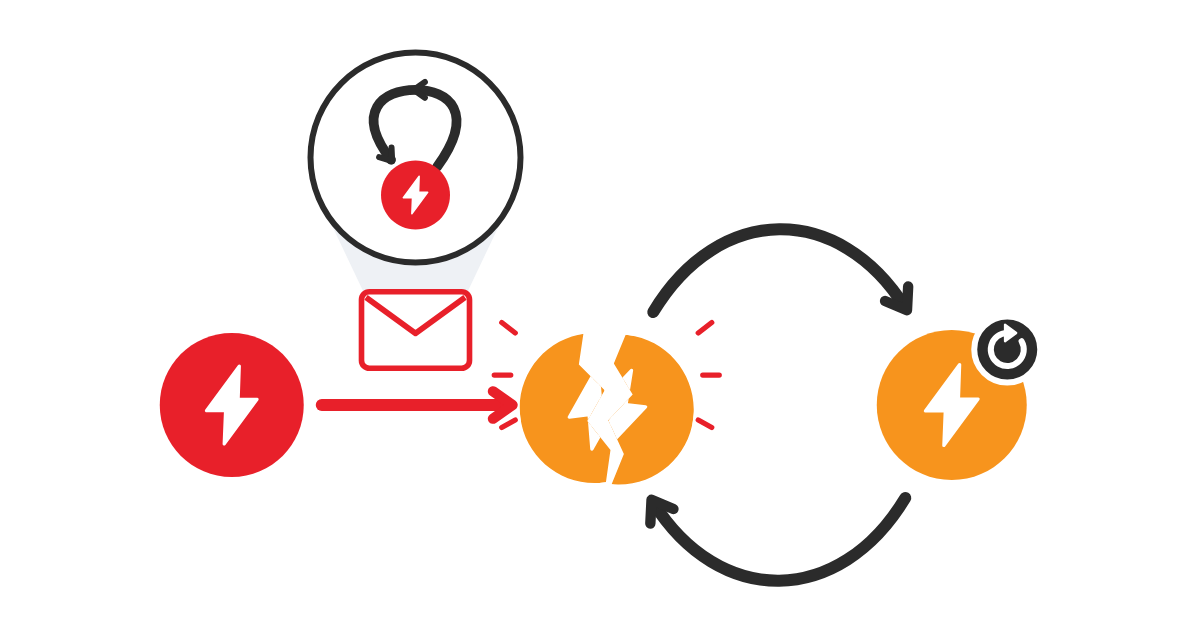
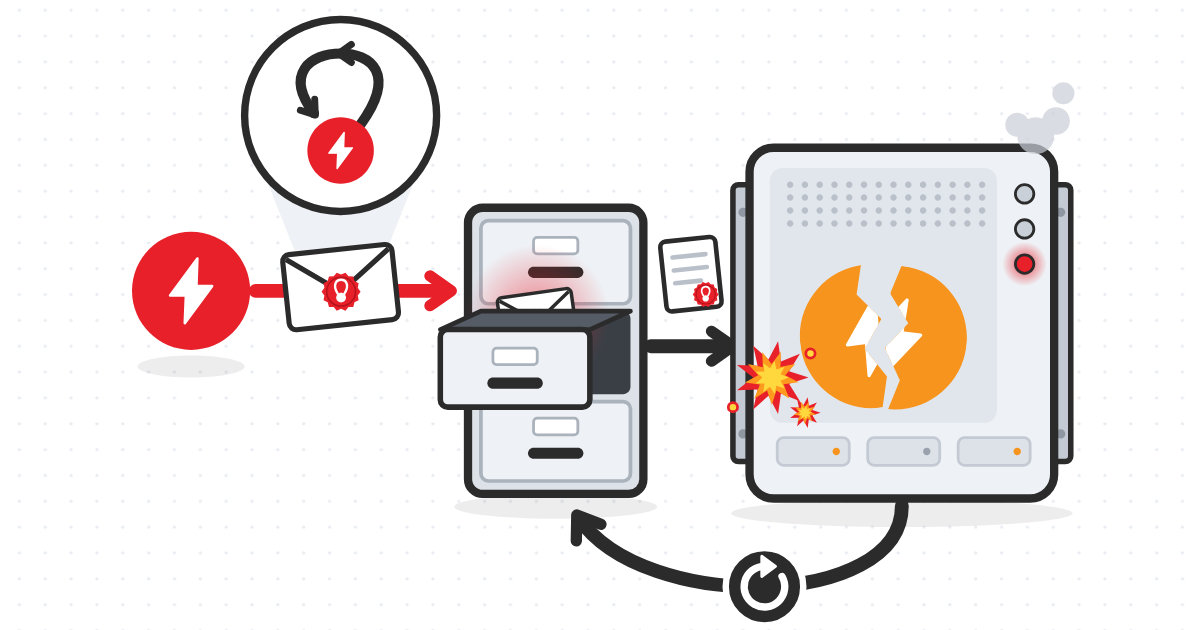
_posts: add CLN reused funding outpoint DoS writeup

Changed region(s): [[0.0925, 0.0, 0.8942, 0.9952], [0.4317, 0.2111, 0.4625, 0.2714]]

diff --git a/_posts/2026-11-10-CLN-Reused-Funding-Outpoint-DoS.md b/_posts/2026-11-10-CLN-Reused-Funding-Outpoint-DoS.md
@@ -1,0 +1,177 @@
+---
+title: "CLN: Reused Funding Outpoint DoS"
+date: 2026-11-10 10:30:00 +0530
+categories: [lightning]
+tags: [lightning, security, bolt2, dos, cln, fuzzing]
+description: Technical analysis of a reused funding outpoint DoS vulnerability in CLN.
+image: ../assets/img/cln-reused-funding-outpoint-dos.png
+---
+
+Core Lightning _v0.12.0_ through _v26.06.2_ accept a `funding_created` that reuses the funding outpoint of an existing channel.
+Since a v1 `channel_id` is derived from the funding outpoint, two channels opened on the same outpoint share a `channel_id`.
+On reconnect, CLN hands its connection daemon a subdaemon for each channel, but the daemon looks them up by `channel_id` and finds the first one both times, so the second trips an assertion that crashes the whole node.
+The outpoint never has to exist on chain, so the attack is **free**, and the attacker can crash the node again by reconnecting after **every restart**.
+
+Upgrade to [Core Lightning v26.06.6](https://github.com/ElementsProject/lightning/releases/tag/v26.06.6) or later.
+
+## Background
+
+The opener of a v1 channel names the funding outpoint in `funding_created`, and the _fundee_ answers with `funding_signed` before the funding transaction is broadcast.
+Both sides then identify the channel by a `channel_id` that BOLT 2 [derives](https://github.com/lightning/bolts/blob/191462825ae341f0a27098765c075f01ca9bc6c2/02-peer-protocol.md?plain=1#L62-L64) by XORing the funding output index into the funding txid, so two channels on the same outpoint share a `channel_id`.
+
+Core Lightning runs each channel in its own subdaemon, `channeld`, and its `connectd` daemon routes each peer message to the subdaemon for its `channel_id`.
+When a peer reconnects, `lightningd` starts a fresh subdaemon for each channel and hands it to `connectd`.
+
+## The vulnerability
+
+When CLN v26.06.2 is the fundee and receives `funding_created`, [`opening_fundee_finished()`](https://github.com/ElementsProject/lightning/blob/15a66cbc052f08c83daa8105bbe87d240e5c4980/lightningd/opening_control.c#L476-L581) derives the `channel_id` and saves the channel without looking for an existing channel on the same outpoint:
+
+```c
+static void opening_fundee_finished(struct subd *openingd,
+				    const u8 *reply,
+				    const int *fds,
+				    struct uncommitted_channel *uc)
+{
+	/* ... parse openingd's reply. */
+
+	derive_channel_id(&cid, &funding);
+
+	/* old_remote_per_commit not valid yet, copy valid one. */
+	channel_info.old_remote_per_commit = channel_info.remote_per_commit;
+
+	/* Consumes uc */
+	channel = wallet_commit_channel(ld, uc,
+					&cid,
+					remote_commit,
+					&remote_commit_sig,
+					&funding,
+					funding_sats,
+					push,
+					channel_flags,
+					&channel_info,
+					feerate,
+					local_upfront_shutdown_script,
+					remote_upfront_shutdown_script,
+					type,
+					NULL,
+					false);
+	/* ... handle failure, watch the funding tx, notify plugins. */
+
+	/* On to normal operation (frees if it fails!) */
+	if (peer_start_channeld(channel, peer_fd, fwd_msg, false))
+		tal_free(uc);
+	return;
+
+failed:
+	tal_free(uc);
+}
+```
+
+`fwd_msg` is the `funding_signed`, which `channeld` sends on startup.
+The database doesn't catch the duplicate either, since it keys channels by an auto-incrementing ID.
+So a peer that runs the funding flow twice with the same outpoint gets `funding_signed` both times, leaving the victim with two channels that share a `channel_id`.
+
+The rest of CLN assumes `channel_id`s are unique.
+Both [`find_channel_by_id()`](https://github.com/ElementsProject/lightning/blob/15a66cbc052f08c83daa8105bbe87d240e5c4980/lightningd/channel.c#L870-L880) in `lightningd` and [`find_subd()`](https://github.com/ElementsProject/lightning/blob/15a66cbc052f08c83daa8105bbe87d240e5c4980/connectd/multiplex.c#L63-L86) in `connectd` return the first match, so the second channel can never be found by its `channel_id`.
+
+### Reconnecting crashes `connectd`
+
+When the peer reconnects, `lightningd` [loops over its channels](https://github.com/ElementsProject/lightning/blob/15a66cbc052f08c83daa8105bbe87d240e5c4980/lightningd/peer_control.c#L1567-L1582) and hands `connectd` a subdaemon for each one, identified only by `channel_id`.
+[`peer_connect_subd()`](https://github.com/ElementsProject/lightning/blob/15a66cbc052f08c83daa8105bbe87d240e5c4980/connectd/multiplex.c#L1685-L1736) handles each request:
+
+```c
+void peer_connect_subd(struct daemon *daemon, const u8 *msg, int fd)
+{
+	/* ... parse the request and look up the peer. */
+
+	/* If peer said something, we created this and queued msg. */
+	subd = find_subd(peer, &channel_id);
+	if (!subd) {
+		subd = new_subd(peer, &channel_id);
+		/* Implies lightningd is ready for another peer. */
+		release_one_waiting_connection(peer->daemon,
+					       tal_fmt(tmpctx, "%s given a subd",
+						       fmt_node_id(tmpctx, &id)));
+	}
+
+	assert(!subd->conn);
+
+	/* This sets subd->conn inside subd_conn_init, and reparents subd! */
+	io_new_conn(peer, fd, subd_conn_init, subd);
+}
+```
+
+The first request finds or creates the subdaemon for that `channel_id` and gives it the connection.
+The second request carries the same `channel_id`, so `find_subd()` returns that same subdaemon, which already has a connection, and `assert(!subd->conn)` fails.
+`connectd` aborts, and because `lightningd` [treats that as fatal](https://github.com/ElementsProject/lightning/blob/15a66cbc052f08c83daa8105bbe87d240e5c4980/lightningd/subd.c#L663-L669), the whole node goes down.
+Both channels are still in the database after a restart, so the next reconnect crashes the node again.
+
+The assertion was [added](https://github.com/ElementsProject/lightning/commit/41b379ed897ad24bf2d68ce022eb15339e430761) in v0.12.0, when `lightningd` began handing connections to `connectd` per channel.
+Releases before v0.12.0 also lack the outpoint check but don't crash, because their `connectd` [ignored](https://github.com/ElementsProject/lightning/blob/c9587ab17b58b8d3c1b03f009580e14f261fa8e1/connectd/multiplex.c#L491-L515) a request for a `channel_id` it already had a subdaemon for.
+
+## The attack
+
+An attacker completes the BOLT 8 handshake and `init` exchange as an ordinary peer.
+It then runs the v1 funding flow twice, naming the same outpoint in both `funding_created` messages and receiving `funding_signed` each time.
+The outpoint never has to exist on chain, so the attack costs nothing.
+Finally, the attacker disconnects and reconnects, and the request for the second channel trips the assertion in `connectd`.
+
+### Observed impact
+
+The node goes down on the first reconnect and again on every reconnect after a restart, so the attacker can keep it offline at no further cost.
+While it is down, the node can't watch the chain, so it can miss a peer broadcasting a revoked commitment or an HTLC it must claim before it expires, putting funds in its other channels at risk.
+
+## The fix
+
+[PR #9318](https://github.com/ElementsProject/lightning/pull/9318), merged 2026-07-16 and released in v26.06.6, makes two changes.
+First, [`opening_fundee_finished()`](https://github.com/ElementsProject/lightning/blob/c7a013c821432d598a1dee39714ad667fffcdd73/lightningd/opening_control.c#L476-L590) now checks the funding outpoint against the peer's other channels and, on a match, disconnects before the channel is stored or `funding_signed` is sent:
+
+```c
+static void opening_fundee_finished(struct subd *openingd,
+				    const u8 *reply,
+				    const int *fds,
+				    struct uncommitted_channel *uc)
+{
+	/* ... parse openingd's reply. */
+
+	derive_channel_id(&cid, &funding);
+
+	/* A funding outpoint funds at most one channel; don't accept a second
+	 * channel reusing one we already have.  Drop the connection so the
+	 * peer's open fails cleanly instead of waiting for funding_signed. */
+	if (find_channel_by_funding_outpoint(uc->peer, &funding)) {
+		force_peer_disconnect(ld, uc->peer,
+				      "Funding outpoint already in use");
+		return;
+	}
+
+	/* ... commit the channel and start channeld. */
+}
+```
+
+Second, [`peer_connect_subd()`](https://github.com/ElementsProject/lightning/blob/c7a013c821432d598a1dee39714ad667fffcdd73/connectd/multiplex.c#L1735-L1741) no longer asserts when a subdaemon already has a connection, but keeps the existing connection and closes the new one, so nodes that already stored duplicate channels don't crash on reconnect.
+
+The outpoint check still lets through a different outpoint whose XOR gives the same `channel_id`, so commit [`7c6926c`](https://github.com/ElementsProject/lightning/commit/7c6926c16f2b9bbdcd45e36b62e8dfcb09865b15), released in [v26.06.8](https://github.com/ElementsProject/lightning/releases/tag/v26.06.8), closes that gap by refusing any new channel whose `channel_id` is already used by another live or closed channel.
+
+## Discovery
+
+While fuzzing CLN's funding flow, smite flagged that CLN would answer a `funding_created` reusing another channel's funding outpoint with `funding_signed`.
+At first this looked like a spec violation with no security impact, so it was reported publicly as [issue #9274](https://github.com/ElementsProject/lightning/issues/9274).
+Further investigation surfaced the crash on reconnect, which was reported privately, and experiments confirmed that reconnecting after every restart crashes the node again.
+
+### Timeline
+
+- **2026-07-03:** Duplicate funding outpoint reported publicly as a spec violation in [issue #9274](https://github.com/ElementsProject/lightning/issues/9274).
+- **2026-07-08:** Crash on reconnect reported privately to Core Lightning.
+- **2026-07-14:** Core Lightning acknowledged the report and began working on a fix.
+- **2026-07-16:** Fix merged as [PR #9318](https://github.com/ElementsProject/lightning/pull/9318).
+- **2026-07-20:** [Core Lightning v26.06.6](https://github.com/ElementsProject/lightning/releases/tag/v26.06.6) released with the fix.
+- **2026-10-23:** Core Lightning approved public disclosure.
+- **2026-11-10:** Public disclosure.
+
+## Takeaways
+
+- **Upgrade to the latest Core Lightning release, currently v26.06.10.**
+  Vulnerabilities are being found faster than ever, and older releases quickly fall behind on fixes.
+- **Never assert on state a peer can influence.**
+  A peer that can break an assertion can crash the node, so any case that isn't provably impossible must be handled gracefully.

diff --git a/_posts/2026-10-24-CLN-Self-Referential-Channel-Announcement-DoS.md b/_posts/2026-10-24-CLN-Self-Referential-Channel-Announcement-DoS.md
@@ -2,7 +2,7 @@
 title: "CLN: Self-Referential Channel Announcement DoS"
 date: 2026-10-24 10:30:00 +0530
 categories: [lightning]
-tags: [lightning, security, dos, cln, fuzzing]
+tags: [lightning, security, bolt7, dos, cln, fuzzing]
 description: Technical analysis of a self-referential channel_announcement DoS vulnerability in CLN.
 image: ../assets/img/cln-self-referential-channel-announcement-dos.png
 ---

diff --git a/_posts/2026-06-18-LND-Zero-Timestamp-Gossip-DoS.md b/_posts/2026-06-18-LND-Zero-Timestamp-Gossip-DoS.md
@@ -2,7 +2,7 @@
 title: "LND: Zero-Timestamp Gossip DoS"
 date: 2026-06-18 10:30:00 +0530
 categories: [lightning]
-tags: [lightning, security, dos, lnd, fuzzing]
+tags: [lightning, security, bolt7, dos, lnd, fuzzing]
 description: Technical analysis of a zero-timestamp gossip DoS vulnerability in LND.
 image: ../assets/img/lnd-zero-timestamp-dos.png
 ---
